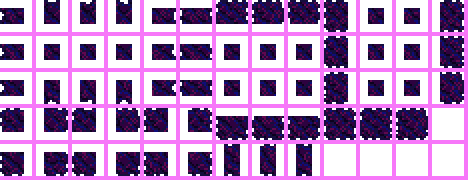
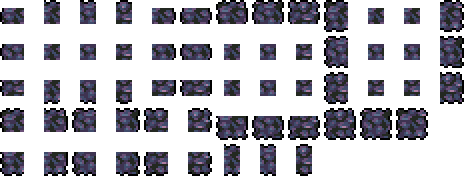
Updated sprites

diff --git a/Biomes/ErilipahBiome/Tiles/InfectedClump.cs b/Biomes/ErilipahBiome/Tiles/InfectedClump.cs
@@ -58,7 +58,6 @@ namespace Erilipah.Biomes.ErilipahBiome.Tiles
                 if (tile.wall > 0 && !(
                     tile.wall == WallID.LihzahrdBrickUnsafe ||
                     tile.wall == (ushort)mod.WallType<InfectedClumpWall>() ||
-                    tile.wall == (ushort)mod.WallType<SpoiledClump.SpoiledClumpWall>() ||
                     tile.wall == (ushort)mod.WallType<TaintedBrick.TaintedBrickWall>()))
                 {
                     bool woodWall = tile.wall == WallID.Wood || tile.wall == WallID.BorealWood || tile.wall == WallID.RichMaogany ||
@@ -66,9 +65,7 @@ namespace Erilipah.Biomes.ErilipahBiome.Tiles
                         tile.wall == WallID.SpookyWood || tile.wall == WallID.Shadewood || tile.wall == WallID.Ebonwood ||
                         tile.wall == WallID.LivingLeaf || tile.wall == WallID.LivingWood;
 
-                    if (woodWall || tile.wall == WallID.MudUnsafe || tile.wall == WallID.SnowWallUnsafe)
-                        tile.wall = (ushort)mod.WallType<SpoiledClump.SpoiledClumpWall>();
-                    else if (tile.wall == WallID.GrayBrick || tile.wall == WallID.RedBrick || tile.wall == mod.WallType<TaintedBrickSafe.TaintedBrickWallSafe>())
+                    if (tile.wall == WallID.GrayBrick || tile.wall == WallID.RedBrick || tile.wall == mod.WallType<TaintedBrickSafe.TaintedBrickWallSafe>())
                         tile.wall = (ushort)mod.WallType<TaintedBrick.TaintedBrickWall>();
                     else
                         tile.wall = (ushort)mod.WallType<InfectedClumpWall>();
@@ -181,29 +178,6 @@ namespace Erilipah.Biomes.ErilipahBiome.Tiles
     }
     public class SpoiledClump : ModTile
     {
-        public class SpoiledClumpWall : ModWall
-        {
-            public override void SetDefaults()
-            {
-                drop = 0;
-                dustType = DustID.PurpleCrystalShard;
-                AddMapEntry(new Color(65, 0, 45, 200));
-
-                soundType = 0;
-                soundStyle = 0;
-            }
-
-            public override void RandomUpdate(int i, int j)
-            {
-                InfectedClump.Infect(i, j, mod);
-            }
-            public override bool CanExplode(int i, int j)
-            {
-                return true;
-            }
-
-            public override void NumDust(int i, int j, bool fail, ref int num) => num = fail ? 0 : 3;
-        }
         public class SpoiledClumpItem : ModItem
         {
             public override void SetStaticDefaults()
@@ -220,7 +194,6 @@ namespace Erilipah.Biomes.ErilipahBiome.Tiles
                 item.createTile = mod.TileType<SpoiledClump>();
             }
         }
-
 
         public override void SetDefaults()
         {

diff --git a/ErilipahWorldGen.cs b/ErilipahWorldGen.cs
@@ -1178,15 +1178,7 @@ namespace Erilipah
 
             if (tile.wall > 0)
             {
-                bool woodWall = tile.wall == WallID.Wood || tile.wall == WallID.BorealWood || tile.wall == WallID.RichMaogany ||
-                    tile.wall == WallID.PalmWood || tile.wall == WallID.LivingWood ||
-                    tile.wall == WallID.SpookyWood || tile.wall == WallID.Shadewood || tile.wall == WallID.Ebonwood ||
-                    tile.wall == WallID.LivingLeaf || tile.wall == WallID.LivingWood;
-
-                if (tile.wall == WallID.MudUnsafe || tile.wall == WallID.SnowWallUnsafe || woodWall)
-                    tile.wall = (ushort)mod.WallType<SpoiledClump.SpoiledClumpWall>();
-                else
-                    tile.wall = (ushort)mod.WallType<InfectedClump.InfectedClumpWall>();
+                tile.wall = (ushort)mod.WallType<InfectedClump.InfectedClumpWall>();
 
                 WorldGen.SquareWallFrame(i, j);
             }

diff --git a/Helper.cs b/Helper.cs
@@ -58,7 +58,6 @@ namespace Erilipah
         {
             var mod = ModLoader.GetMod("Erilipah");
             return tile.wall == mod.WallType<InfectedClump.InfectedClumpWall>() ||
-                tile.wall == mod.WallType<SpoiledClump.SpoiledClumpWall>() ||
                 tile.wall == mod.WallType<TaintedBrick.TaintedBrickWall>();
         }
 
